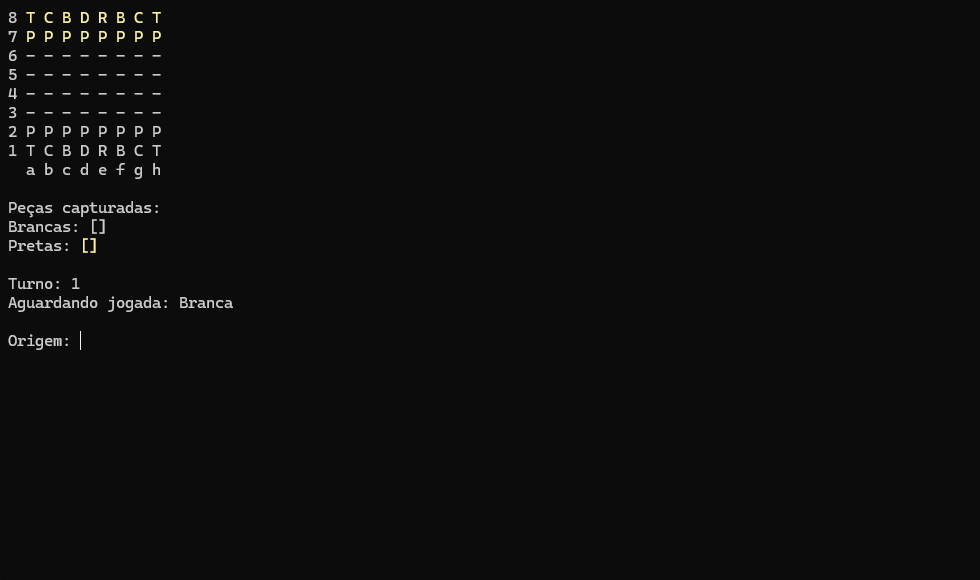
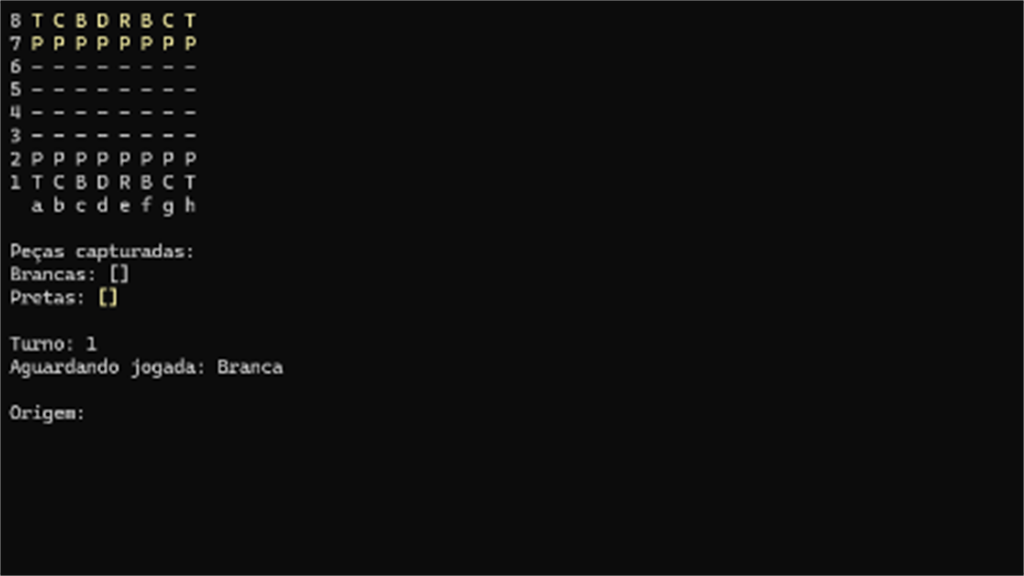
Estilizacao do site concluida

diff --git a/index.html b/index.html
@@ -11,11 +11,12 @@
 
 <body>
     <header id="cabecalho">
+        <a href="#" class="logo">&lbrace;LGDSHK&rbrace;</a>
         <nav id="menu-navegacao">
             <ul class="lista-cabecalho">
                 <li class="lista-conteudo"><a href="#tecnologias">Tecnologias</a> </li>
                 <li class="lista-conteudo"><a href="#projetos">Projetos</a></li>
-                <li class="lista-conteudo"><a href="#rodape">Contato</a></li>
+                <li class="lista-conteudo"><a href="#contato">Contato</a></li>
             </ul>
         </nav>
     </header>
@@ -78,14 +79,16 @@
 
                         <h3>Xadrez em C#</h3>
                         <p>
-                            Jogo de xadrez desenvolvido em C#, executado diretamente no terminal. O projeto aplica
-                            conceitos
-                            de lógica e POO para implementar as regras, movimentações
+                            Xadrez desenvolvido em C#, executado diretamente no terminal. O projeto aplica 
+                            lógica e POO para implementar as regras, movimentações
                             das peças
                             e funcionamento de uma partida.
                         </p>
 
-                        <a href="https://github.com/lgdshk/jogo-de-xadrez-csharp">Código</a>
+                        <div class="projeto-links contato-link github">    
+                            <a href="https://github.com/lgdshk/jogo-de-xadrez-csharp" target="_blank" rel="noopener noreferrer">
+                                <img src="./assets/images/logos/github-original.svg" alt="Github Icon">Código</a>
+                        </div>
                     </div>
                 </article>
 
@@ -111,9 +114,11 @@
                         </p>    
 
 
-                        <div class="projeto-links">
-                            <a href="https://github.com/Codigo-Em-Jogo/codigo-em-jogo">Código</a>
-                            <a href="https://github.com/Codigo-Em-Jogo/codigo-em-jogo">Acessar site</a>
+                        <div class="projeto-links contato-link github">
+                            <a href="https://github.com/Codigo-Em-Jogo/codigo-em-jogo" target="_blank" rel="noopener noreferrer">
+                                <img src="./assets/images/logos/github-original.svg" alt="Github Icon">Código</a>
+                            <a href="https://codigo-em-jogo.github.io/codigo-em-jogo/" target="_blank" rel="noopener noreferrer">
+                                <img src="./assets/images/logos/external-link.svg" alt="">Acessar site</a>
                         </div>
                     </div>
                 </article>
@@ -139,26 +144,37 @@
                             de páginas, organização de conteúdo e estilização de interfaces.
                         </p>
 
-                        <div class="projeto-links">
-                            <a href="https://github.com/lgdshk/site-de-receitas">Código</a>
-                            <a href="https://lgdshk.github.io/site-de-receitas/site-receitas/">Acessar site</a>
+                        <div class="projeto-links contato-link github">
+                            <a href="https://github.com/lgdshk/site-de-receitas" target="_blank" rel="noopener noreferrer">
+                                <img src="./assets/images/logos/github-original.svg" alt="Github Icon">Código</a>
+                            <a href="https://lgdshk.github.io/site-de-receitas/site-receitas/" target="_blank" rel="noopener noreferrer">
+                                <img src="./assets/images/logos/external-link.svg" alt="">Acessar site</a>
                         </div>
                     </div>
                 </article>
             </div>
         </section>
+
+        <section id="contato" class="secao-contato">
+            <h2>Entre em contato</h2>
+
+            <div class="contato-container">
+                <ul>
+                    <li class="contato-link"><a href="mailto:lcsgabsouza@outlook.com">
+                        <img src="./assets/images/logos/outlookicon..svg" alt="Outlook logo">E-mail</a></li>
+                    <li class="contato-link github"><a href="https://github.com/lgdshk" target="_blank" rel="noopener noreferrer">
+                        <img src="./assets/images/logos/github-original.svg" alt="github logo">Github</a>
+                    </li>
+                    <li class="contato-link"><a href="https://www.linkedin.com/in/lg-s-374988212/" target="_blank" rel="noopener noreferrer">
+                        <img src="./assets/images/logos/linkedin-original.svg" alt="linkedin logo">Linkedin</a></li>
+                </ul>
+            </div>
+        </section>
+
     </main>
 
-    <footer id="rodape" class="contato">
-        <ul>
-            <li class="contato-link"><a href="lcsgabsouza@outlook.com">Enviar e-mail</a>></li>
-            <li class="contato-link"><a href="https://github.com/lgdshk">Github <img
-                        src="./assets/images/logos/github-original.svg" alt="github logo" width="20" height="20"></a>
-            </li>
-            <li class="contato-link"><a href="linkdedin.com.br">Linkedin <img
-                        src="./assets/images/logos/linkedin-original.svg" alt="linkedin logo" width="20"
-                        height="20"></a></li>
-        </ul>
+    <footer id="rodape">
+        <p>Lucas Gabriel de Souza &copy; 2026</p>
     </footer>
 </body>
 

diff --git a/style.css b/style.css
@@ -83,16 +83,29 @@ body {
 }
 
 #cabecalho {
-  padding: 16px;
+  display: flex;
+  justify-content: space-between;
+  align-items: center;
+  padding: 12px 16px;
   background-color: #010409;
+  border-bottom: 1px solid #263B5A;
+  position: sticky;
+  top: 0;
+  z-index: 100;
+}
 
+.logo {
+  font-weight: bold;
+  font-size: 18px;
+  color: #79A9FF;
+  text-decoration: none;
 }
 
 .lista-cabecalho {
   display: flex;
   align-items: center;
   justify-content: space-evenly;
-  gap: 16px;
+  gap: 12px;
   padding: 0;
 }
 
@@ -101,13 +114,34 @@ body {
 }
 
 .lista-conteudo a {
-  color: inherit;
+  color: #8792a2;
   text-decoration: none;
+  font-size: 14px;
+  transition: color 0.2s ease;
+}
+
+.lista-conteudo a:hover{
+  color: #79A9FF;
+}
+
+@media (width: 700){
+  #cabecalho{
+    padding: 16px 32px;
+  }
+  .logo{
+    font-size: 20px;
+  }
+  .lista-cabecalho{
+    gap: 24px;
+  }
+  .lista-conteudo a{
+    font-size: 16px;
+  }
 }
 
 main {
   width: 100%;
-  max-width: 70rem;
+  max-width: 75rem;
   margin: 0 auto;
   padding: 16px;
 }
@@ -183,7 +217,7 @@ main {
   font-size: 16px;
 }
 
-@media {
+@media (min-width: 700px){
   .conteudo-sobre h2 {
     font-size: 18px;
   }
@@ -194,21 +228,21 @@ main {
 }
 
 .conteudo-stack {
-  padding: 24px 12px;
+  padding: 18px 10px;
   border-top: 1px solid #79A9FF;
   padding-top: 48px;
 }
 
 .conteudo-stack h2 {
   font-size: 24px;
-  text-align: left;
+  text-align: center;
   margin-bottom: 24px;
 }
 
 
 .conteudo-stack-lista img {
-  width: 52px;
-  height: 52px;
+  width: 48px;
+  height: 48px;
   object-fit: contain;
 }
 
@@ -243,12 +277,32 @@ main {
   background-color: #f0f6fc;
 }
 
+#projetos{
+  padding: 12px;
+  margin-top: 12px;
+}
+
+#projetos h2{
+  font-size: 28px;
+  text-align: center;
+  margin-top: 24px;
+  margin-bottom: 24px;
+}
+
+@media (min-width: 700px){
+  #projetos h2{
+    font-size: 36px;
+    margin-top: 28px;
+  }
+} 
 
 .projeto {
   background-color:  #010409;
   border: 1px solid #263B5A;
-  border-radius: 16px;
+  border-radius: 10px;
   overflow: hidden;
+  display: flex;
+  flex-direction: column;
 }
 
 .projeto-container{
@@ -257,9 +311,10 @@ main {
   gap: 22px;
 }
 
-@media (min-width: 700px){
+@media (min-width: 800px){
   .projeto-container{
     display: flex;
+    flex-direction: row;
     align-items: stretch;
     justify-content: space-evenly;
     gap: 32px;
@@ -278,13 +333,15 @@ main {
   flex-direction: column;
   align-items: flex-start;
   gap: 8px;
+  flex: 1;
 }
 
 .projeto img{
   display: block;
   width: 100%;
-  height: 220px;
-  object-fit: contain;
+  height: auto;
+  aspect-ratio: 16/9;
+  object-fit: cover;
 }
 
 .projeto h3{
@@ -325,7 +382,7 @@ main {
   display: flex;
   gap: 12px;
   flex-wrap: wrap;
-  margin-top: 4px;
+  margin-top: auto;
 }
 
 .c-sharp{
@@ -363,4 +420,64 @@ main {
 
 .projeto-conteudo p{
   font-size: 16px;
+}
+
+.secao-contato {
+  text-align: center;
+  padding: 48px 16px;
+  border-top: 1px solid #79A9FF;
+  margin-top: 48px;
+}
+
+.secao-contato h2 {
+  font-size: 28px;
+  margin-bottom: 32px;
+}
+
+.contato-container {
+  display: flex;
+  flex-direction: row;
+  justify-content: center;
+}
+
+.secao-contato ul {
+  list-style: none;
+  display: flex;
+  justify-content: center;
+  gap: 24px;
+  text-align: center;
+  padding: 0;
+  font-size: 24px;
+}
+
+.contato-link a{
+  display: flex;
+  align-items: center;
+  gap: 8px;
+  color: #79A9FF;
+  text-decoration:none;
+  font-size: 14px;
+}
+
+@media (min-width: 700px){
+  .contato-link{
+    font-size: 18px;
+  }
+}
+
+.contato-link img {
+  width: 20px;
+  height: 20px;
+}
+
+.github img{
+  filter: brightness(0) invert(1);
+}
+
+#rodape {
+  text-align: center;
+  padding: 16px;
+  background-color: #010409;
+  color: #8792a2;
+  font-size: 14px;
 }
